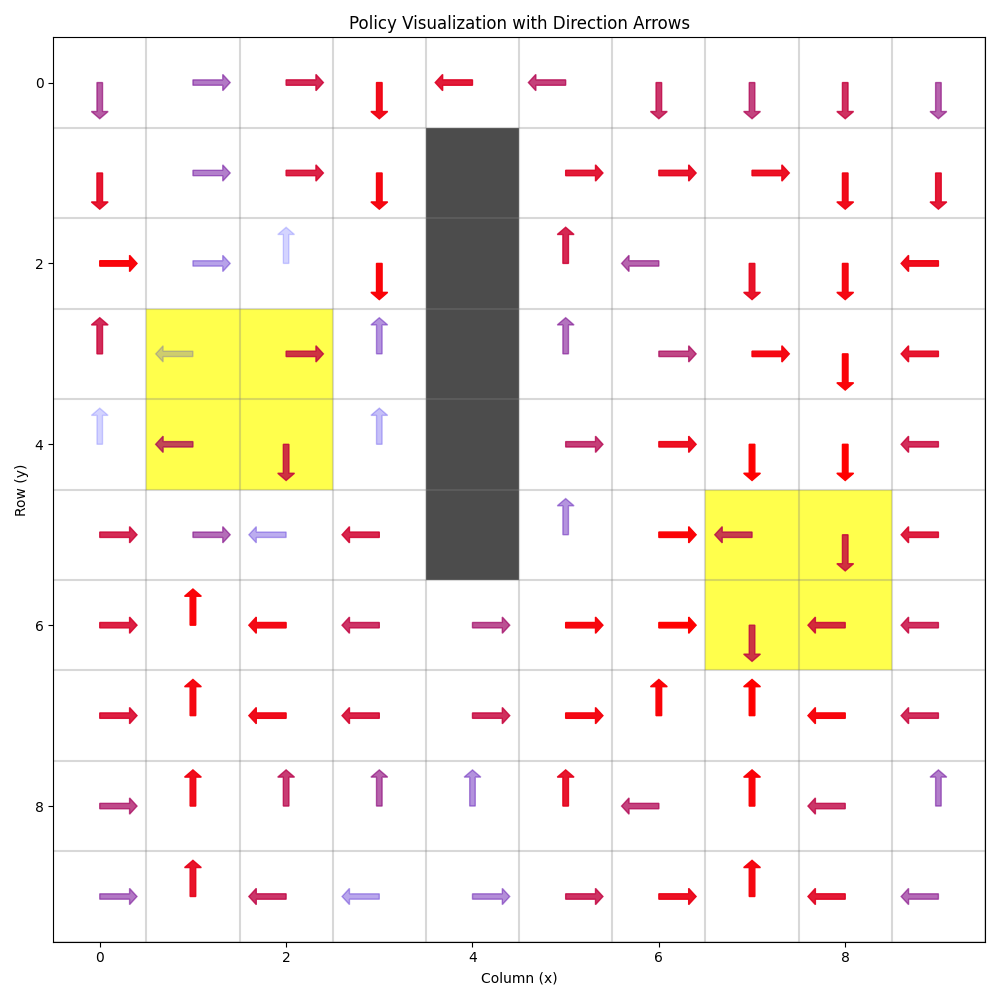
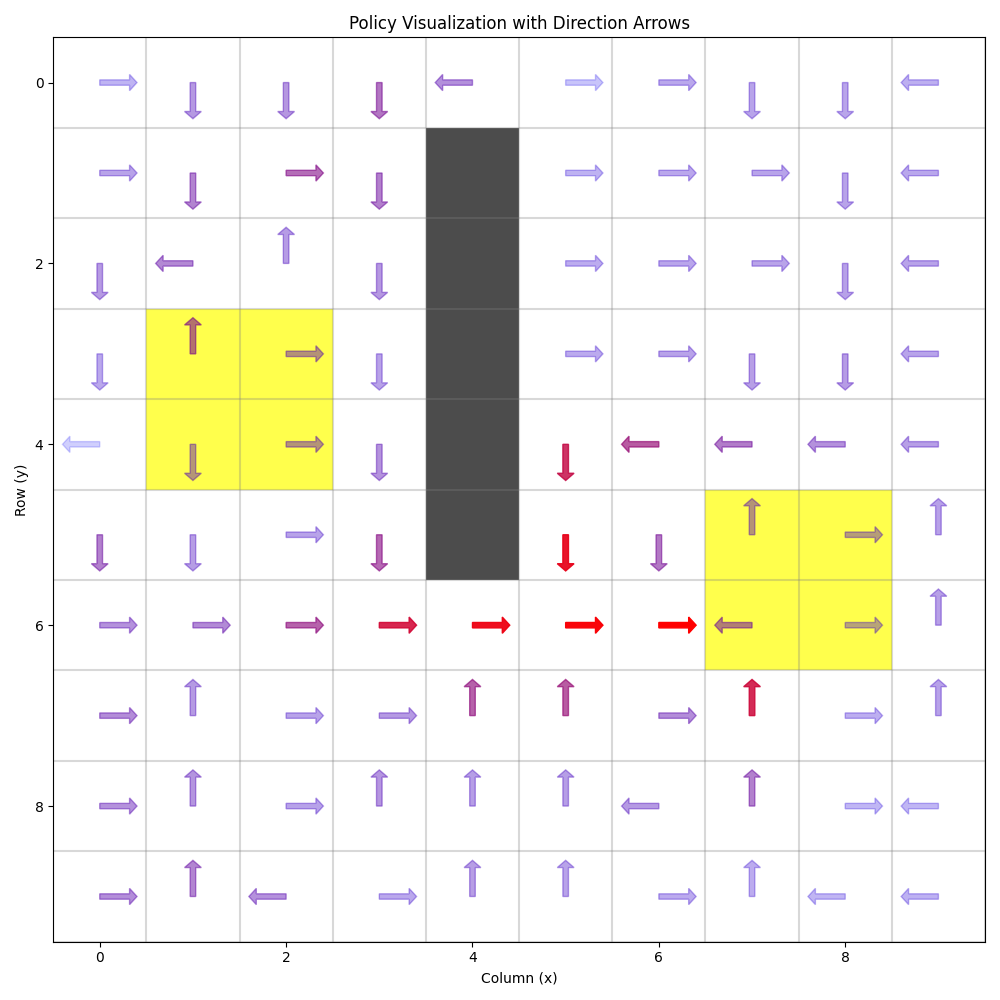
save progress goal q

diff --git a/project/templates/index.html b/project/templates/index.html
@@ -213,11 +213,15 @@
             },
             layers: [
                 { name: 'obstacle', color: '#030303'},
+                { name: 'starting', color: '#808080'},
                 { name: 'goal_1', color: '#FF0000'},
                 { name: 'goal_2', color: '#00FF00'},
                 { name: 'goal_3', color: '#0000FF'},
                 { name: 'goal_4', color: '#FFFF00'},
-                { name: 'goal_5', color: '#FF00FF'}
+                { name: 'goal_5', color: '#FF00FF'},
+                { name: 'goal_6', color: '#800000'},
+                { name: 'goal_7', color: '#008000'},
+                { name: 'goal_8', color: '#000080'},
             ],
             activeLayerIndex: 0,
             isDrawing: false,

diff --git a/project/boolean_task.py b/project/boolean_task.py
@@ -3,13 +3,13 @@ import random
 from reach_avoid_tabular import torch, Room, create_room, load_room, Image
 
 class GoalOrientedBase:
-    def __init__(self, room:Room, learning_rate=0.1, gamma=0.98, epsilon=0.1, r_min=-1e7):
+    def __init__(self, room:Room, learning_rate=0.1, gamma=0.99, r_min=-1e7):
         """
         Initialize the Goal-Oriented Q-Learning algorithm for a 2D reach-avoid navigation task.
         
         Args:
-            grid_size: Size of the square grid environment
-            alpha: Learning rate
+            room: Room object
+            learning_rate: Learning rate
             gamma: Discount factor
             epsilon: Exploration constant
             r_min: Lower-bound extended reward
@@ -17,7 +17,7 @@ class GoalOrientedBase:
         self.env = room
         self.learning_rate = learning_rate
         self.gamma = gamma
-        self.epsilon = epsilon
+        self.epsilon = 0.5
         self.r_min = r_min
         self.G = set() 
 
@@ -39,9 +39,11 @@ class GoalOrientedBase:
     def train_episodes(self, num_iterations=10, num_episodes=1000, max_steps_per_episode=100, fn=""):
         """Train the agent using Goal-Oriented Q-Learning."""
         rewards_per_episode = []
-        gnames = list(self.env.goals.keys())
+        gnames = list([name for name, gmask in self.env.goals.items() if gmask.any()])
+        self.epsilon = 0.5
         for iteration in range(num_iterations):
             random.shuffle(gnames)
+            n_exceeded = 0
             for gname in gnames:
                 gmask = self.env.goals[gname]
                 for episode in range(num_episodes):
@@ -54,8 +56,8 @@ class GoalOrientedBase:
                     while steps < max_steps_per_episode:
                         action = self.select_action(state)
                         next_state, reward, done = self.env.step(action)
-                        if gmask[next_state[0], next_state[1]]:
-                            reward = 0
+                        if done >= 2 and not gmask[next_state[0], next_state[1]]:
+                            reward = -0.1
                             done = 1
                         episode_reward += reward
                         
@@ -71,8 +73,11 @@ class GoalOrientedBase:
                             self._add_goal(state)
                             if done >= 2:
                                 break   # Reach goal eventually, no need to continue (mask goal reached)
-
-            print(f"Iteration {iteration}, gnames: {gnames}, num goals {len(self.G)}")
+                    else:
+                        n_exceeded += 1
+                    self.epsilon = max(0.05, self.epsilon*0.99) # decay epsilon
+                    
+            print(f"Iteration {iteration}, gnames: {gnames}, num goals {len(self.G)}, exceeded {n_exceeded}|{num_episodes*len(gnames)}")
             # self._save_progress()
         
         return rewards_per_episode

diff --git a/project/learning.py b/project/learning.py
@@ -70,10 +70,14 @@ class AtomicTask:
         return self.goal_valid[loc[0], loc[1]] > 0 and self.condition_valid[loc[0], loc[1]].item() > 0
     
     def get_policy(self, qmodel:GoalOrientedBase):
-        goal_policy = qmodel.q_compose(self.goal_region)
-        condition_policy = qmodel.q_compose(self.condition_region) if self.condition_region is not None else torch.zeros_like(goal_policy)
+        # goal_policy = qmodel.q_compose(self.goal_region)
+        valid_goal = self.goal_region & self.condition_valid
+        if not torch.any(valid_goal):
+            raise ValueError("No valid goal region for this task")
+        joint_policy = qmodel.q_compose(valid_goal)
+        condition_policy = qmodel.q_compose(self.condition_region) if self.condition_region is not None else torch.zeros_like(joint_policy)
         # return condition_policy + torch.where(goal_policy > 0, goal_policy, 0) # nonegative goal policy offsets condition policy
-        return condition_policy + torch.where(goal_policy > 0, goal_policy, 0) # nonegative goal policy offsets condition policy
+        return condition_policy + joint_policy
         
 def dfa_and(atomic_qs):
     return torch.min(torch.stack(atomic_qs), dim=0).values
@@ -182,13 +186,13 @@ class DFA_dijkstra(DFA_Task):
 
 if __name__ == "__main__":
     room = load_room("saved_disc", "9room.pt", 4)
-    goal_1 = room.goals.pop('goal_1')
+    starting = room.goals.pop('starting')
     print(room.goals.keys())
     room.start()
     goal_learner = GoalOrientedQLearning(room)
-    goal_learner.train_episodes(num_iterations=50, num_episodes=10, max_steps_per_episode=50)
+    goal_learner.train_episodes(num_iterations=5, num_episodes=20, max_steps_per_episode=100)
 
-    at = AtomicTask("(!goal_3 U (goal_2 | goal_5))", room)
+    at = AtomicTask("F(goal_2)", room)
     # at = AtomicTask("F goal_2", room)
     print(at)
     policy = at.get_policy(goal_learner)

diff --git a/project/reach_avoid_tabular.py b/project/reach_avoid_tabular.py
@@ -11,7 +11,7 @@ class Room:
         self.action_dim = 1
         self.n_actions = n_actions
         self.base = torch.ones((height, width), dtype=torch.bool)
-        self._reward_lev = 20
+        self._reward_lev = 1000
         self.goals = dict[str, torch.BoolTensor]()
         self.always = None
         self.terrain = None
@@ -100,7 +100,7 @@ class Room:
 
         if label >= 2:
             return new_loc, self._reward_lev, label
-        return new_loc, 0, 0
+        return new_loc, -0.1, 0     # -0.1 for no goal reached
     
     def draw_policy(self, q_values, mask=None, fn="policy"):
         """
@@ -229,9 +229,10 @@ def load_room(mode, name, n_actions=8):
         if goal == 'obstacle':
             room.base = torch.logical_not(mask)
         else:
-            layers[goal] = mask
-            if layer["always"]:
-                always_mask = torch.maximum(always_mask, mask)
+            if torch.any(mask):
+                layers[goal] = mask
+                if layer["always"]:
+                    always_mask = torch.maximum(always_mask, mask)
     room.always = always_mask
     room.goals = layers
     return room
